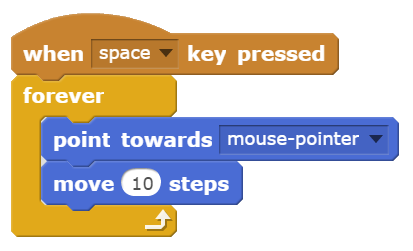
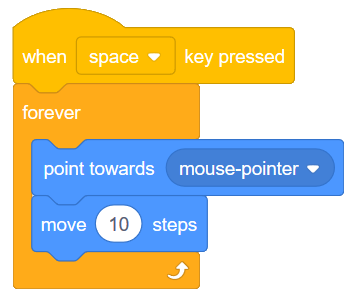
chase the mouse and drawing polygons images updated to scratch 3

diff --git a/_sources/VisualProgrammingEnv/ExperimentWithRepeat.rst b/_sources/VisualProgrammingEnv/ExperimentWithRepeat.rst
@@ -86,15 +86,19 @@ Check Your Understanding
 Drawing Regular Polygons
 ------------------------
 
+.. note::
+
+	To allow your Scratch character to access the Pen tab, you may need to click on the "Add Extensions" button (on the bottom left of the screen), then click on the Pen button.
+
 Every sprite in Scratch has the ability to draw with a virtual pen that they are holding at all times. This allows each sprite to leave a trail that shows where they have walked. In order to do this, you need to use the **pen down** block from the Pen tab, then have your sprite move. Explore this by trying the following:
 
 .. image:: images/scratch_pen_down.png
 
-To remove the path you have drawn, double click on the **clear** block in the Pen tab. 
+To remove the path you have drawn, double click on the **clear** block in the Pen tab.
 
 .. topic:: Your Turn 1
 
-    Now that you know how to draw on the stage, see if you can draw a square using only the **pen down**, **move __ steps** and **turn __ degrees** blocks. 
+    Now that you know how to draw on the stage, see if you can draw a square using only the **pen down**, **move __ steps** and **turn __ degrees** blocks.
 
 For many students, the first square they draw would be with code that looks like this:
 
@@ -107,8 +111,8 @@ Although this does create a square, notice that there is code that is repeated m
 .. topic:: Your Turn 2
 
     Adapt the code above to allow you to draw the following regular polygon shapes: triangle (3 sides), pentagon (5 sides), hexagon (6 sides), octagon (8 sides). Set up your project so that pressing the *t* key draws a triangle, *s* draws a square, *p* draws a pentagon, etc.
-    
-    |regularPolygonImages| 
+
+    |regularPolygonImages|
 
     If you complete the regular polygons before the rest of your classmates, try to draw a circle and a five sided star.
 
@@ -118,7 +122,7 @@ Although this does create a square, notice that there is code that is repeated m
 
 .. |extraShapes| image:: images/scratch_extra_shapes.png
 
-Although you may have used a guess and check method to determine the angles used to draw the shapes above, there is a pattern we can use to draw these shapes. Notice the angles that you used in order to draw the shapes: 
+Although you may have used a guess and check method to determine the angles used to draw the shapes above, there is a pattern we can use to draw these shapes. Notice the angles that you used in order to draw the shapes:
 
 +------------+---------+-------------+
 | Shape      | Sides   | Angle Used  |
@@ -142,8 +146,6 @@ Although you may have used a guess and check method to determine the angles used
 Practice Problem
 ------------------
 
-Work on your first Scratch assignment, for any remaining time. 
+Work on your first Scratch assignment, for any remaining time.
 
 .. note:: If your teacher did not assign you a project, you may want to consider making a short story to practice your Scratch skills. Be sure to utilize broadcasts, repeat blocks, and if-then blocks.
-
-
